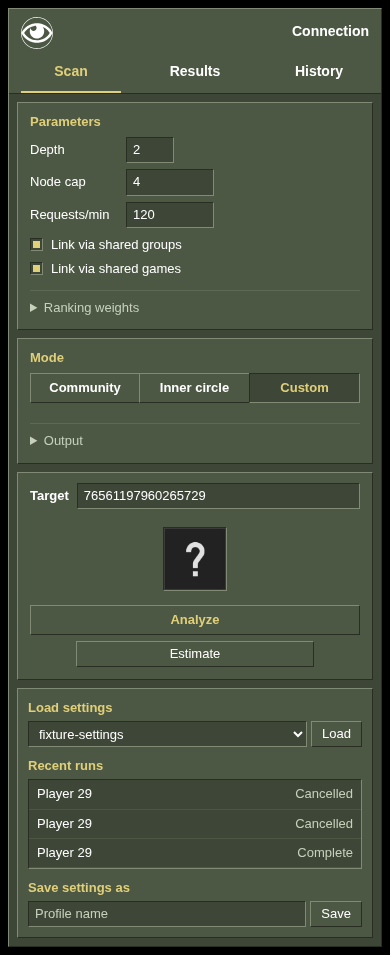
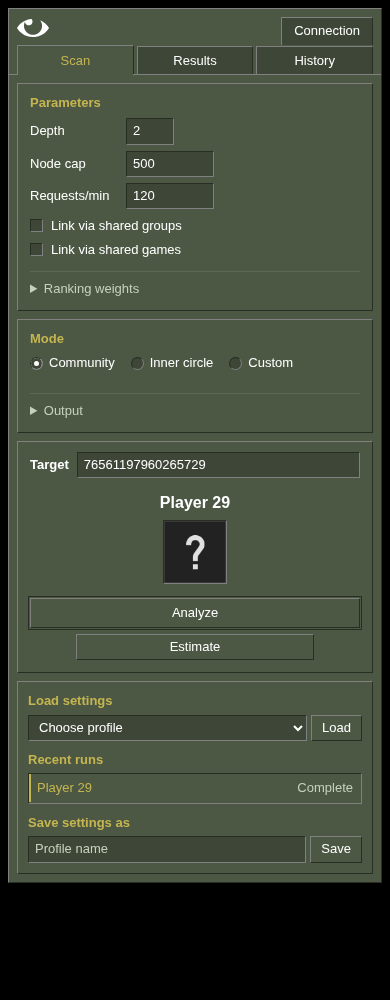
fix(ui): remove eye ring and restore VGUI controls

diff --git a/ui/style.css b/ui/style.css
@@ -1,22 +1,22 @@
 /* Vapora: classic Steam desktop skin over the feature/gui-and-analysis composition.
-   Palette from old-steam-web.css; Maize and Label lifted to hold 4.5:1 on GreenBG. */
+   Surfaces, bevels and Arial type from the OG-Steam VGUI scheme. */
 :root {
   color-scheme: dark;
   --LightGreenBG: #5a6a50;
   --GreenBG: #4c5844;
   --DarkGreenBG: #3e4637;
-  --BevelLight: #808a75;
+  --BevelLight: #808080;
   --BevelDark: #282e22;
   --Rule: #5d6a53;
   --OffWhite: #fff;
   --Label: #c6d0bb;
-  --Maize: #e0cf79;
+  --Maize: #c4b550;
   --MaizeBG: #91863c;
   --FullGreen: #7ea64b;
   --Outset: var(--BevelLight) var(--BevelDark) var(--BevelDark) var(--BevelLight);
   --Inset: var(--BevelDark) var(--BevelLight) var(--BevelLight) var(--BevelDark);
   --Mono: "Lucida Console", "Courier New", monospace;
-  font: 13px/1.4 Tahoma, Verdana, "Segoe UI", sans-serif;
+  font: 13px/1.4 Arial, Helvetica, sans-serif;
   color: var(--OffWhite);
   background: #000;
   scrollbar-color: var(--LightGreenBG) var(--DarkGreenBG);
@@ -45,7 +45,8 @@ button {
 }
 button:hover { color: var(--Maize); }
 button:active, button[aria-current="page"] { background: var(--DarkGreenBG); border-color: var(--Inset); }
-button[aria-current="page"], button.primary { color: var(--Maize); font-weight: bold; }
+button.primary { color: var(--OffWhite); outline: 1px solid var(--BevelDark); outline-offset: 1px; }
+button.primary:focus-visible { outline: 2px solid var(--Maize); }
 button:disabled, button:disabled:hover { color: #939d88; background: var(--DarkGreenBG); cursor: default; }
 input, select {
   min-width: 0; min-height: 24px; padding: 3px 6px; color: var(--OffWhite); background: var(--DarkGreenBG);
@@ -53,7 +54,8 @@ input, select {
 }
 input::placeholder { color: var(--Label); opacity: 1; }
 input[type="checkbox"] { appearance: none; flex: none; width: 13px; height: 13px; min-height: 0; padding: 0; margin: 0; cursor: pointer; }
-input[type="checkbox"]:checked { background: var(--Maize); box-shadow: inset 0 0 0 2px var(--DarkGreenBG); }
+input[type="checkbox"]:checked { background: var(--DarkGreenBG); }
+input[type="checkbox"]:checked::after { content: "✓"; display: block; color: var(--Maize); font: bold 12px/11px Arial, sans-serif; text-align: center; }
 input[type="file"] { padding: 2px; }
 input::file-selector-button { font: inherit; margin-right: 8px; padding: 2px 10px; color: var(--OffWhite); background: var(--GreenBG); border: 1px solid; border-color: var(--Outset); cursor: pointer; }
 label { color: var(--OffWhite); }
@@ -70,20 +72,22 @@ legend, .panel-title { display: block; color: var(--Maize); font-size: 13px; fon
 .panel-title { margin: 0 0 6px; }
 .panel { min-width: 0; padding: 10px 12px 12px; background: var(--GreenBG); border: 1px solid; border-color: var(--Outset); }
 
-/* Toolbar */
-.toolbar { display: flex; align-items: center; gap: 16px; min-height: 48px; padding: 0 12px; background: var(--GreenBG); border-bottom: 1px solid var(--BevelDark); }
-.brand { display: block; flex: none; width: 32px; height: 32px; }
-.workspace-tabs { display: flex; align-self: stretch; gap: 24px; }
-/* Navigation names the current view. Bevels belong to actions, not tabs. */
+/* Page tabs join the workspace; only action buttons have a closed bevel. */
+.toolbar { display: flex; align-items: end; flex-wrap: wrap; gap: 12px; padding: 10px 12px 0; background: var(--GreenBG); border-bottom: 1px solid var(--BevelLight); }
+.brand { display: block; flex: none; width: 32px; height: auto; margin-bottom: 8px; }
+.workspace-tabs { display: flex; align-items: end; gap: 3px; }
 .workspace-tabs button, .key-button, .tabs button {
-  min-width: 0; min-height: 48px; padding: 8px 0; font-size: 14px; font-weight: bold;
-  background: transparent; border: 0; border-bottom: 2px solid transparent;
+  position: relative; min-width: 0; min-height: 25px; padding: 4px 12px;
+  font-size: 13px; font-weight: normal; background: var(--DarkGreenBG);
+  border: 1px solid; border-color: var(--Outset); border-bottom: 0;
 }
-.workspace-tabs button:active, .key-button:active, .tabs button:active { background: transparent; border-color: transparent; }
 .workspace-tabs button[aria-current="page"], .key-button[aria-current="page"], .tabs button[aria-current="page"] {
-  background: transparent; border-color: transparent; border-bottom-color: var(--Maize);
+  padding-top: 6px; color: var(--Maize); background: var(--GreenBG); border-color: var(--Outset);
 }
-.key-status { display: flex; align-items: center; gap: 8px; margin-left: auto; }
+.workspace-tabs button[aria-current="page"]::after, .key-button[aria-current="page"]::after, .tabs button[aria-current="page"]::after {
+  content: ""; position: absolute; left: 0; right: 0; bottom: -1px; height: 1px; background: var(--GreenBG);
+}
+.key-status { display: flex; align-items: end; margin-left: auto; }
 #notice { padding: 6px 12px; color: var(--Maize); background: #4a4526; border-bottom: 1px solid var(--MaizeBG); white-space: pre-wrap; overflow-wrap: anywhere; }
 .scan-progress { display: grid; grid-template-columns: auto minmax(120px, 1fr) auto auto; align-items: center; gap: 12px; padding: 6px 12px; background: var(--GreenBG); border-bottom: 1px solid var(--BevelDark); }
 .scan-progress h2 { color: var(--Maize); font-size: 13px; }
@@ -94,7 +98,7 @@ progress::-webkit-progress-value { background: var(--FullGreen); }
 progress::-moz-progress-bar { background: var(--FullGreen); }
 
 /* Scan screen: params and mode stacked left, utility rail middle, target right. */
-main { min-width: 0; padding: 8px; }
+main { min-width: 0; padding: 8px; background: var(--GreenBG); }
 .screen { min-width: 0; }
 .scan-grid { display: grid; grid-template-columns: minmax(0, 1fr) 190px 260px; grid-template-areas: "form rail target"; gap: 8px; align-items: start; }
 #scan-form { grid-area: form; display: grid; grid-template-rows: auto auto; gap: 8px; min-width: 0; }
@@ -111,14 +115,11 @@ details { margin-top: 10px; padding-top: 8px; border-top: 1px solid var(--Rule);
 .weights label { display: grid; gap: 3px; color: var(--Label); }
 .output-files .output-tree { margin-top: 8px; }
 .mode-output { display: flex; flex-direction: column; gap: 6px; }
-.segmented { display: grid; grid-template-columns: repeat(3, minmax(0, 1fr)); margin-bottom: 4px; }
-.segmented label { position: relative; }
-.segmented label + label { margin-left: -1px; }
-.segmented input { position: absolute; width: 1px; height: 1px; margin: 0; opacity: 0; }
-.segmented span { display: block; height: 100%; padding: 5px 6px; text-align: center; font-weight: bold; background: var(--GreenBG); border: 1px solid; border-color: var(--Outset); cursor: pointer; }
-.segmented label:hover span { color: var(--Maize); }
-.segmented input:checked + span { color: var(--Maize); background: var(--DarkGreenBG); border-color: var(--Inset); }
-.segmented input:focus-visible + span { position: relative; z-index: 1; outline: 2px solid var(--Maize); outline-offset: 1px; }
+.segmented { display: flex; flex-wrap: wrap; gap: 8px 16px; margin-bottom: 4px; }
+.segmented label { display: inline-flex; align-items: center; gap: 6px; cursor: pointer; }
+.segmented input { appearance: none; width: 13px; height: 13px; min-height: 0; padding: 0; margin: 0; border-radius: 50%; }
+.segmented input:checked { background: var(--OffWhite); box-shadow: inset 0 0 0 3px var(--DarkGreenBG); }
+.segmented span { font-weight: normal; }
 .output-tree { margin: 0; padding: 8px 10px; color: var(--Maize); background: var(--DarkGreenBG); border: 1px solid; border-color: var(--Inset); font: 13px/1.45 var(--Mono); overflow: auto; }
 .target-panel { display: flex; flex-direction: column; gap: 6px; }
 .target-row { display: grid; grid-template-columns: auto minmax(0, 1fr); gap: 8px; align-items: center; }
@@ -161,8 +162,8 @@ dd { margin-top: 2px; color: var(--Maize); font-size: 18px; font-variant-numeric
 #report-error { margin-top: 6px; color: var(--Maize); overflow-wrap: anywhere; }
 #report-details { margin-top: 8px; overflow-wrap: anywhere; }
 #warnings p { margin-top: 6px; color: var(--Maize); overflow-wrap: anywhere; }
-.tabs { display: flex; gap: 20px; margin: 12px 0 0; }
-.tabs button { min-height: 36px; }
+.tabs { display: flex; align-items: end; gap: 3px; margin: 12px 0 0; }
+.tabs button { padding-inline: 8px; }
 .view { padding: 10px 12px 12px; background: var(--GreenBG); border: 1px solid; border-color: var(--Outset); }
 .view > h2 { margin-bottom: 8px; }
 .view > .hint, #node-detail { margin-top: 8px; }
@@ -208,10 +209,10 @@ tbody tr:hover { background: var(--GreenBG); }
 }
 @media (max-width: 720px) {
   body { width: calc(100% - 16px); margin: 8px; }
-  .toolbar { display: grid; grid-template-columns: minmax(0, 1fr) auto; gap: 0 12px; padding: 4px 12px 0; }
+  .toolbar { display: grid; grid-template-columns: minmax(0, 1fr) auto; gap: 0 8px; padding: 8px 8px 0; }
   .workspace-tabs { grid-column: 1 / -1; grid-row: 2; }
-  .workspace-tabs button { flex: 1; min-height: 40px; }
-  .key-button { min-height: 40px; }
+  .workspace-tabs button { flex: 1; min-height: 28px; }
+  .key-button { min-height: 28px; }
   main { padding: 8px; }
   .scan-grid { grid-template-columns: minmax(0, 1fr); grid-template-areas: "form" "target" "rail"; gap: 8px; }
   #scan-form { gap: 8px; }

diff --git a/ui/index.html b/ui/index.html
@@ -12,7 +12,7 @@
 <body>
   <a class="skip" href="#results">Skip to workspace</a>
   <header class="toolbar">
-    <img class="brand" src="/vapora.svg" width="32" height="32" alt="Vapora" decoding="async">
+    <img class="brand" src="/vapora.svg" width="32" height="18" alt="Vapora" decoding="async">
     <nav class="workspace-tabs" aria-label="Workspace">
       <button type="button" data-screen="scan" aria-controls="scan-screen" aria-current="page">Scan</button>
       <button type="button" data-screen="results" aria-controls="results-screen">Results</button>
@@ -134,7 +134,7 @@
         <nav class="tabs" aria-label="Report views">
           <button type="button" data-view="friends" aria-current="page">Friends</button>
           <button type="button" data-view="network">Network</button>
-          <button type="button" data-view="locations">Location signals</button>
+          <button type="button" data-view="locations">Locations</button>
           <button type="button" data-view="exports">Exports</button>
         </nav>
         <section id="friends-view" class="view">

diff --git a/docs/product-contract.md b/docs/product-contract.md
@@ -20,9 +20,9 @@ Vapora runs locally on Node.js 24 and uses TypeScript and Effect 4. The Python i
 - Support local normalized SteamHistory JSON and NDJSON imports with validated timestamps and individual Steam IDs. Preserve profile/history details and rank friendship durations separately from network scores.
 - Provide a CLI with scan, estimate, resume, history, analyze, serve, profiles, and recent-run operations. Estimates are labeled sampling estimates and bounded by the cap.
 - Provide a working local browser UI for configuration, estimation, scanning, cancellation, resume, reports, graph exploration, imports, saved profiles, and export downloads. Render names as text, support keyboard navigation, show actual progress, and retain UI state through polling.
-- Polish the existing `feature/gui-and-analysis` composition: compact toolbar, scan parameters above mode/output on the left, and target/profile/actions on the right. Use its classic Steam olive surfaces, inset fields, beveled controls, compact type, and mustard selection accents. Use plain navigation tabs with an active underline, reserving beveled buttons for actions. Keep readable 13px labels and put repeated identifiers and run timestamps in profile links, tooltips and run details. Show connection status in Connection. Keep one stylesheet, visible focus and scrollbars, and no looping animation.
+- Polish the existing `feature/gui-and-analysis` composition: compact toolbar, scan parameters above mode/output on the left, and target/profile/actions on the right. Use its classic Steam olive surfaces, inset fields, beveled controls, compact type, and mustard selection accents. Use classic VGUI page tabs that join their panels with an open bottom edge, and full 1px bevels on action buttons. Use Arial 13px labels and put repeated identifiers and run timestamps in profile links, tooltips and run details. Show connection status in Connection. Keep one stylesheet, visible focus and scrollbars, and no looping animation.
 - Size the Steam window to its content, with a compact green toolbar rather than a black banner. Keep recent-run lists bounded, avoid stretching empty panels, and put format help and method notes behind native disclosures. Keep run failures visible.
-- Use `assets/vapora.svg`, cropped to the original white eye only, with a square viewBox and a 32px toolbar size. Blue regions must be transparent so the green toolbar shows through. The SVG contains vector paths, not an embedded raster or runtime font. Preserve the source PNG and existing favicon. Bundle local visual assets and serve them through an explicit allowlist. A target preview must not invent profile data or imply that an unscanned profile has been resolved.
+- Use `assets/vapora.svg`, cropped to the original white eye only, without its outer circle, with a tightly cropped eye-shaped viewBox and a 32px-wide toolbar size. Blue regions must be transparent so the green toolbar shows through. The SVG contains vector paths, not an embedded raster or runtime font. Preserve the source PNG and existing favicon. Bundle local visual assets and serve them through an explicit allowlist. A target preview must not invent profile data or imply that an unscanned profile has been resolved.
 - Separate Scan, Results, History, and Connection views. Switching views preserves inputs and reports; opening a saved or completed run shows Results unless the user navigates elsewhere while it loads. Progress and cancellation stay accessible in every view. Stack the layout at narrow widths without page-level horizontal overflow.
 - Give each scan/resume operation a unique operation ID, independent of its run ID and server instance. Process each terminal result once, including repeated failures before creating a run and repeated cancellation of the same run.
 - Show actionable failure messages in the browser and saved report; keep stack traces in the run log.
